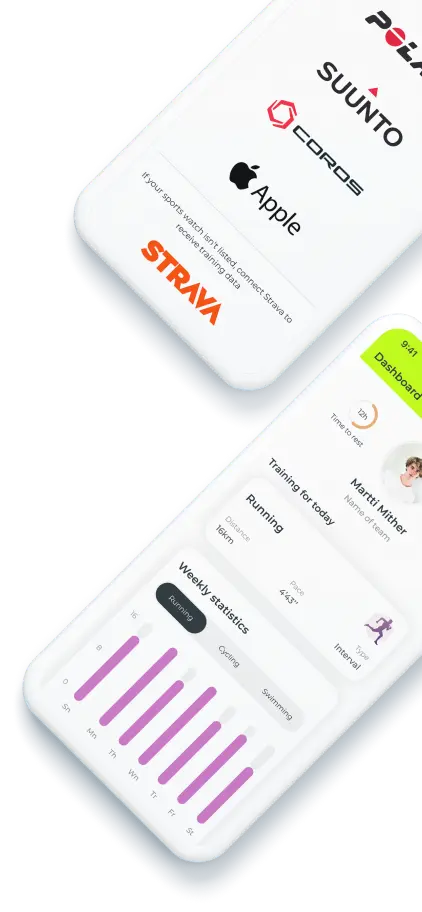
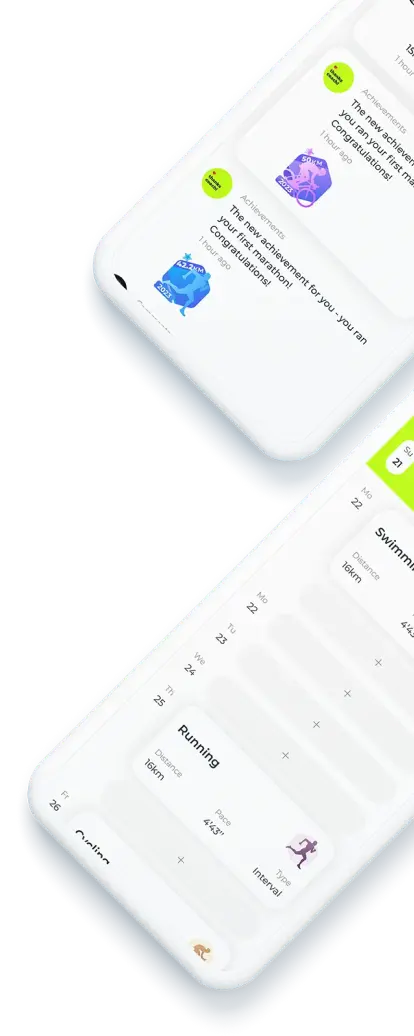
fix: bcg and content layout on different screens

diff --git a/css/style.css b/css/style.css
@@ -436,7 +436,7 @@ img {
   scroll-behavior: smooth;
   background-color: #BFFF00;
   background-image: url("../assets/img/landing-bcg-1200.webp");
-  background-size: 1140px 1104px;
+  background-size: 939px 1756px;
   width: 100%;
   background-repeat: no-repeat;
   background-position: right bottom;
@@ -462,7 +462,7 @@ img {
   .landing {
     background-image: url("../assets/img/landing-bcg-1199.webp");
     background-position: right bottom;
-    background-size: 673px 1104px;
+    background-size: 903px 1104px;
   }
 }
 @media (max-width: 991px) {
@@ -475,13 +475,13 @@ img {
   .landing {
     background-image: url("../assets/img/landing-bcg-767.webp");
     background-position: right top;
-    background-size: 450px 673px;
+    background-size: 387px 854px;
   }
 }
 @media (max-width: 420px) {
   .landing {
     background-image: url("../assets/img/landing-bcg-420.webp");
-    background-size: 211px 456px;
+    background-size: 207px 518px;
   }
 }
 .landing-header {
@@ -523,6 +523,7 @@ img {
 .landing-main {
   padding-left: 120px;
   padding-right: 120px;
+  width: 50%;
 }
 .landing-main__cta {
   font-size: 40px;
@@ -557,12 +558,14 @@ img {
 
 @media (max-width: 1199px) {
   .landing-main {
+    width: 55%;
     padding-right: 60px;
     padding-left: 60px;
   }
 }
 @media (max-width: 991px) {
   .landing-main {
+    width: 60%;
     padding-right: 40px;
     padding-left: 40px;
   }
@@ -587,6 +590,7 @@ img {
   .landing-main {
     padding-right: 16px;
     padding-left: 16px;
+    width: 65%;
   }
   .landing-main__cta {
     font-size: 26px;

diff --git a/sass/blocks/_landing.scss b/sass/blocks/_landing.scss
@@ -3,7 +3,7 @@
   scroll-behavior: smooth;
   background-color: $bg-primary;
   background-image: url("../assets/img/landing-bcg-1200.webp");
-  background-size: 1140px 1104px;
+  background-size: 939px 1756px;
   width: 100%;
   background-repeat: no-repeat;
   background-position: right bottom;
@@ -30,7 +30,7 @@
   .landing {
     background-image: url("../assets/img/landing-bcg-1199.webp");
     background-position: right bottom;
-    background-size: 673px 1104px;
+    background-size: 903px 1104px;
   }
 }
 
@@ -45,13 +45,13 @@
   .landing {
     background-image: url("../assets/img/landing-bcg-767.webp");
     background-position: right top;
-    background-size: 450px 673px;
+    background-size: 387px 854px;
   }
 }
 
 @media (max-width: 420px) {
   .landing {
     background-image: url("../assets/img/landing-bcg-420.webp");
-    background-size: 211px 456px;
+    background-size: 207px 518px;
   }
 }

diff --git a/sass/blocks/_landing-main.scss b/sass/blocks/_landing-main.scss
@@ -1,6 +1,7 @@
 .landing-main {
   padding-left: 120px;
   padding-right: 120px;
+  width: 50%;
 
   &__cta {
     font-size: 40px;
@@ -40,6 +41,7 @@
 
 @media (max-width: 1199px) {
   .landing-main {
+    width: 55%;
     padding-right: 60px;
     padding-left: 60px;
   }
@@ -47,6 +49,7 @@
 
 @media (max-width: 991px) {
   .landing-main {
+    width: 60%;
     padding-right: 40px;
     padding-left: 40px;
   }
@@ -76,6 +79,7 @@
   .landing-main {
     padding-right: 16px;
     padding-left: 16px;
+    width: 65%;
 
     &__cta {
       font-size: 26px;
